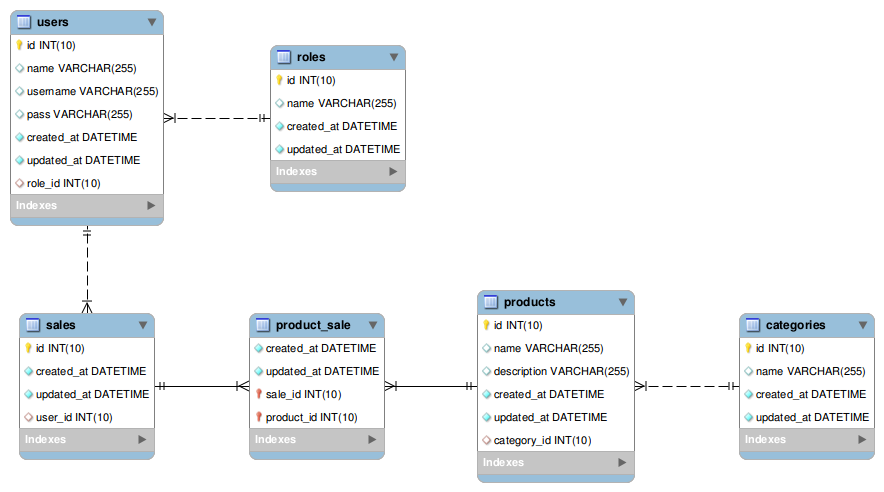
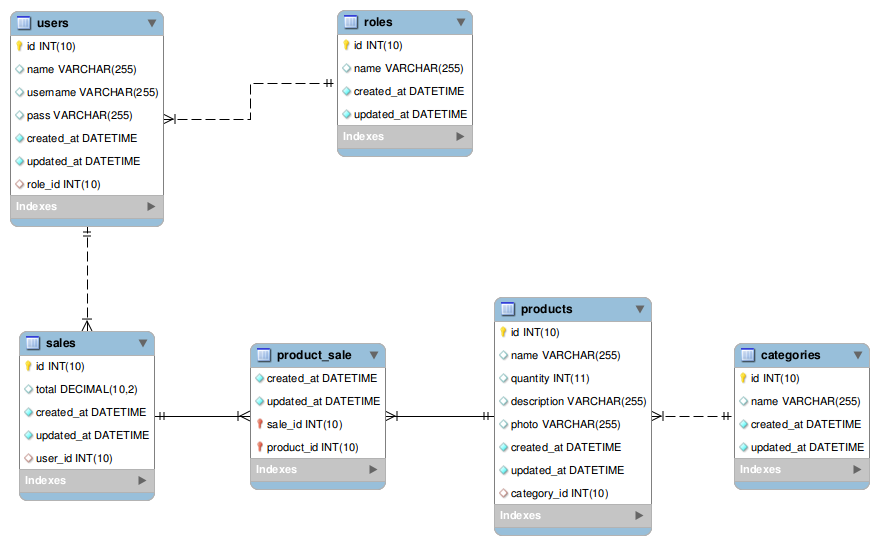
WIP:buy

Changed region(s): [[0.0, 0.5183, 1.0, 1.0], [0.0, 0.0, 0.5529, 0.4878]]

diff --git a/server/client/src/app/routes/user/user-buy/user-buy.component.ts b/server/client/src/app/routes/user/user-buy/user-buy.component.ts
@@ -41,21 +41,21 @@ export class UserBuyComponent implements OnInit {
     if(localStorage.getItem('productsCar')){
       this.productsCar = JSON.parse(localStorage.getItem('productsCar'));
       this.productsCar.forEach(p => {
-        if(!p.count){
-          p.count=1;
+        if(!p.quantity){
+          p.quantity=1;
         }
       })
     }
   }
 
   add(product: Product){
-    product.count+=+1;
+    product.quantity+=+1;
     this.setSession(); 
   }
 
   remove(product: Product,modal: any){
-    if(product.count>1){
-      product.count+=-1;
+    if(product.quantity>1){
+      product.quantity+=-1;
     }else{
       this.productsCar = this.productsCar.filter(p => p.id!=product.id);
     }

diff --git a/server/client/src/app/routes/user/user-buy/user-buy.component.html b/server/client/src/app/routes/user/user-buy/user-buy.component.html
@@ -19,7 +19,7 @@
                 <td>{{product.name}}</td>
                 <td>{{product.category?.name}}</td>
                 <td>
-                    <a class="btn btn-danger" (click)="remove(product)"><</a>{{product.count}}
+                    <a class="btn btn-danger" (click)="remove(product)"><</a>{{product.quantity}}
                     <a class="btn btn-danger" (click)="add(product)">></a>
                 </td>
             </tr>

diff --git a/server/client/src/app/model/product.ts b/server/client/src/app/model/product.ts
@@ -7,7 +7,7 @@ export class Product {
         public category_id?: number,
         public category?: Category,
         public photo?: string,
-        public count?: number,
+        public quantity?: number,
         public description?: string
     ){}
 }

diff --git a/server/dao/productDao.js b/server/dao/productDao.js
@@ -12,6 +12,10 @@ const productDaoModel = {
   name: {
     type: DataTypes.STRING
   },
+  quantity: {
+    type: DataTypes.INTEGER,
+    defaultValue: 1
+  },
   description: {
     type: DataTypes.STRING
   },
